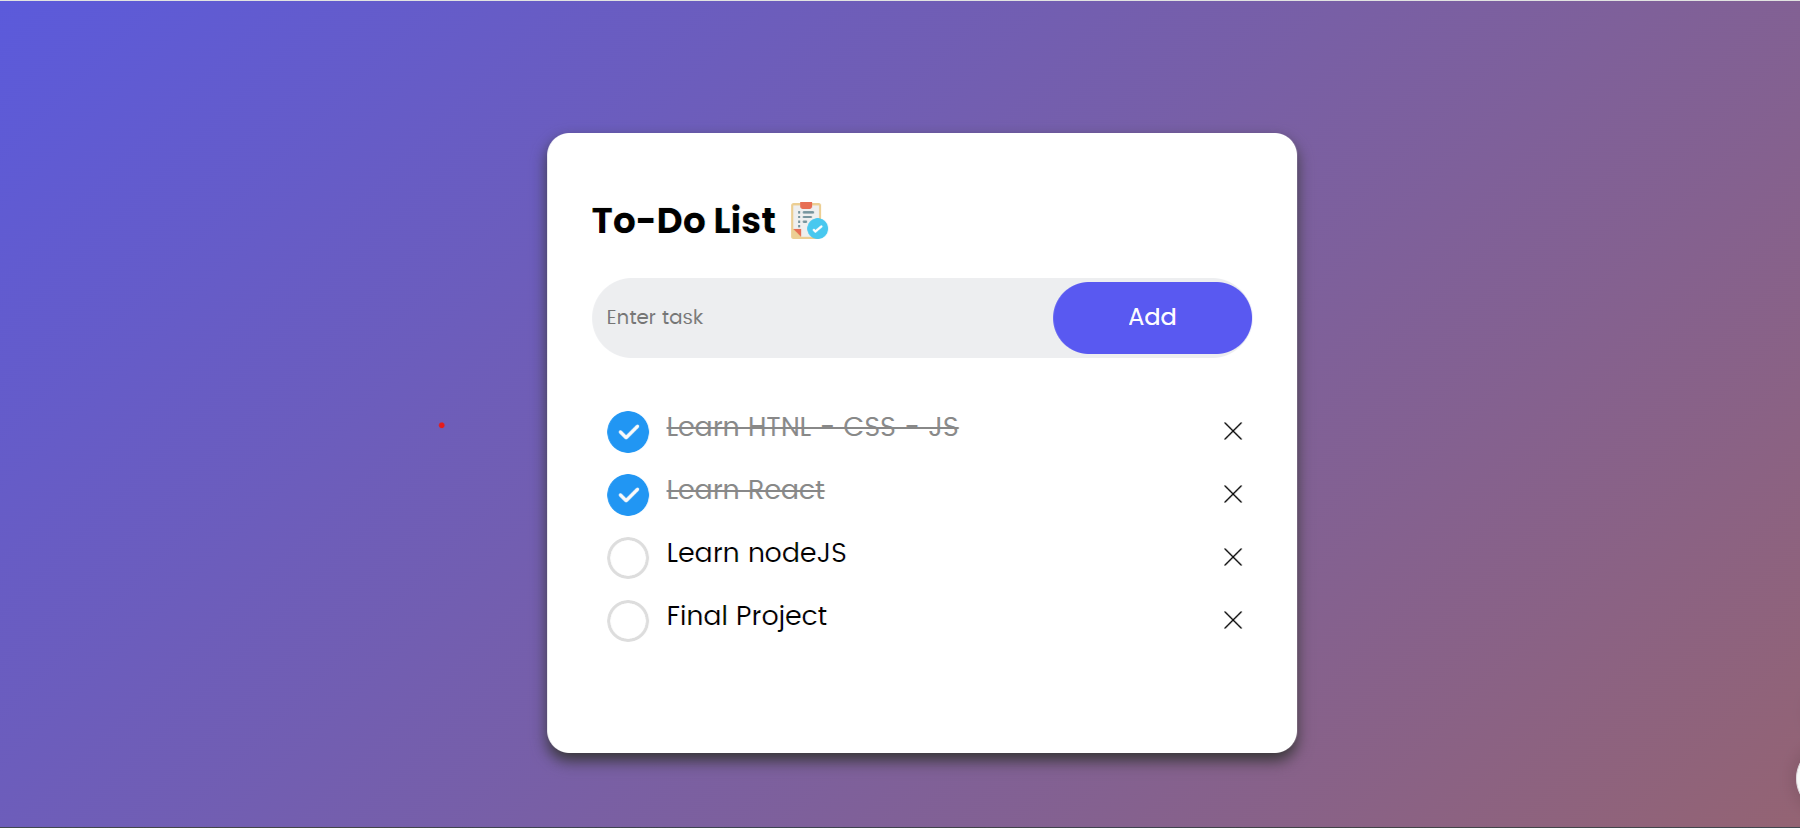
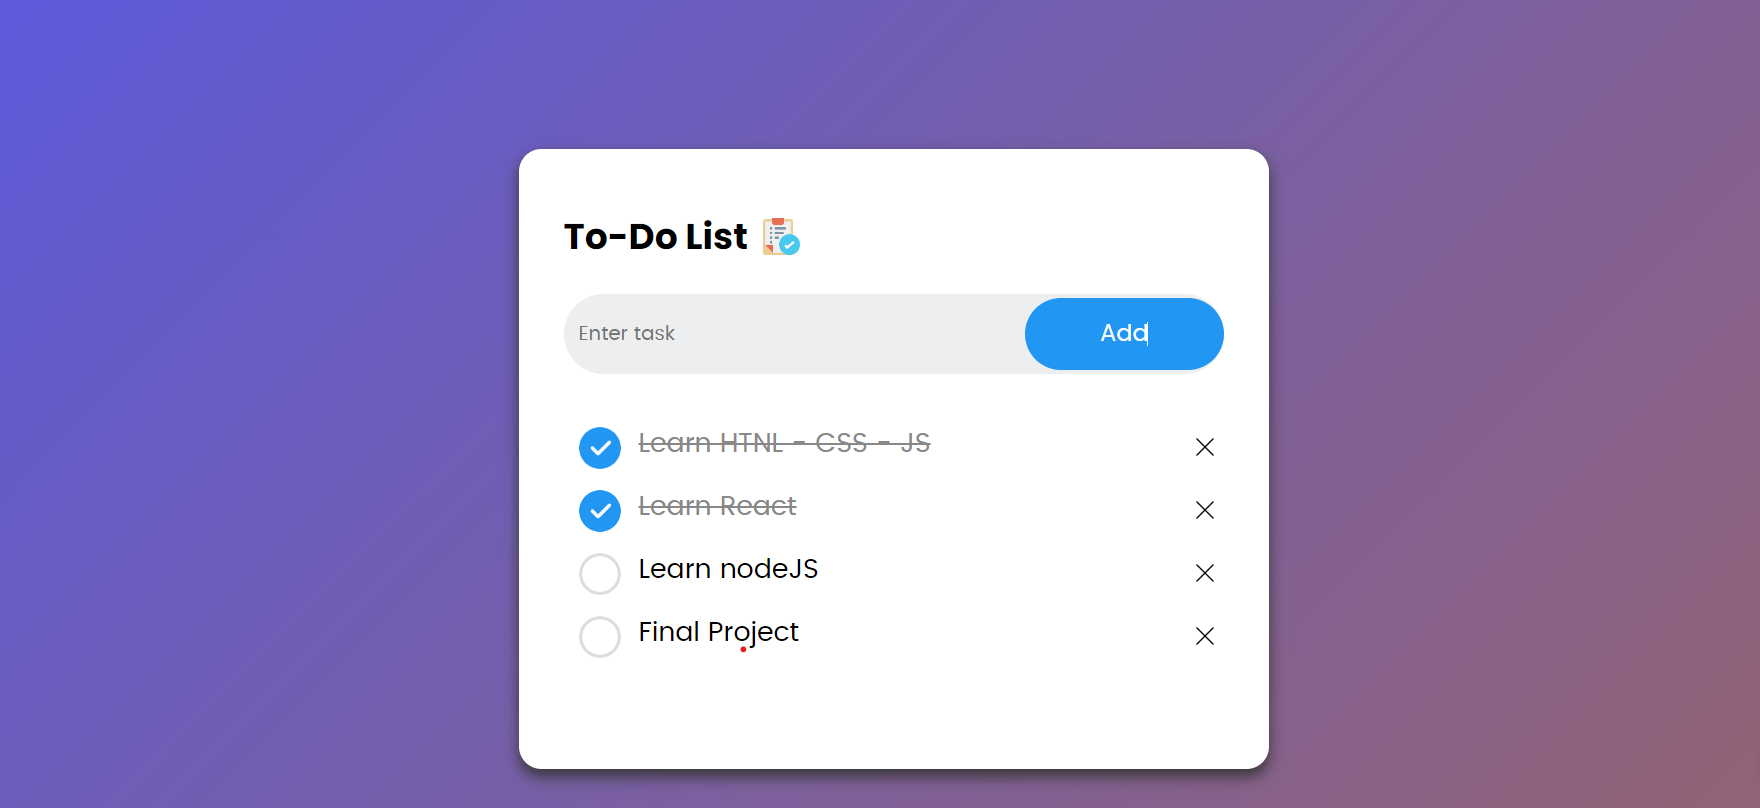
every thing is well

Changed region(s): [[0.0, 0.1547, 1.0, 1.0], [0.5625, 0.3403, 0.7188, 0.4641]]

diff --git a/style.css b/style.css
@@ -49,7 +49,7 @@
 button{
     border: none;
     outline: none;
-    background: rgb(89, 89, 241);
+    background: rgb(33 150 243);
     color: white;
     padding: 16px 50px;
     font-size: 16px;
